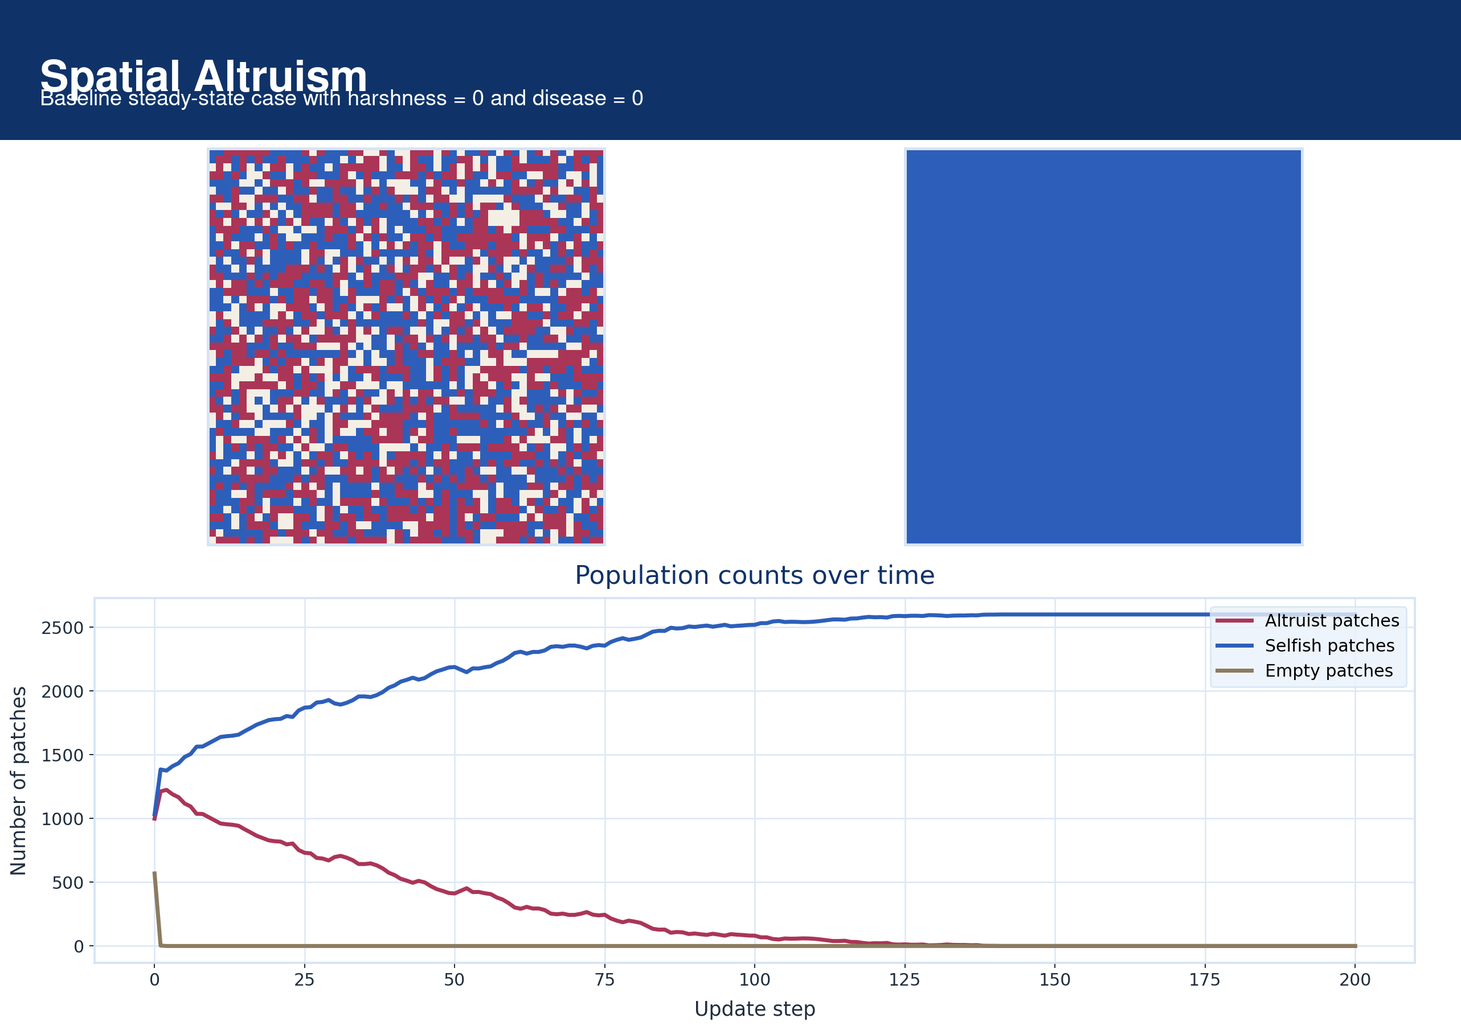
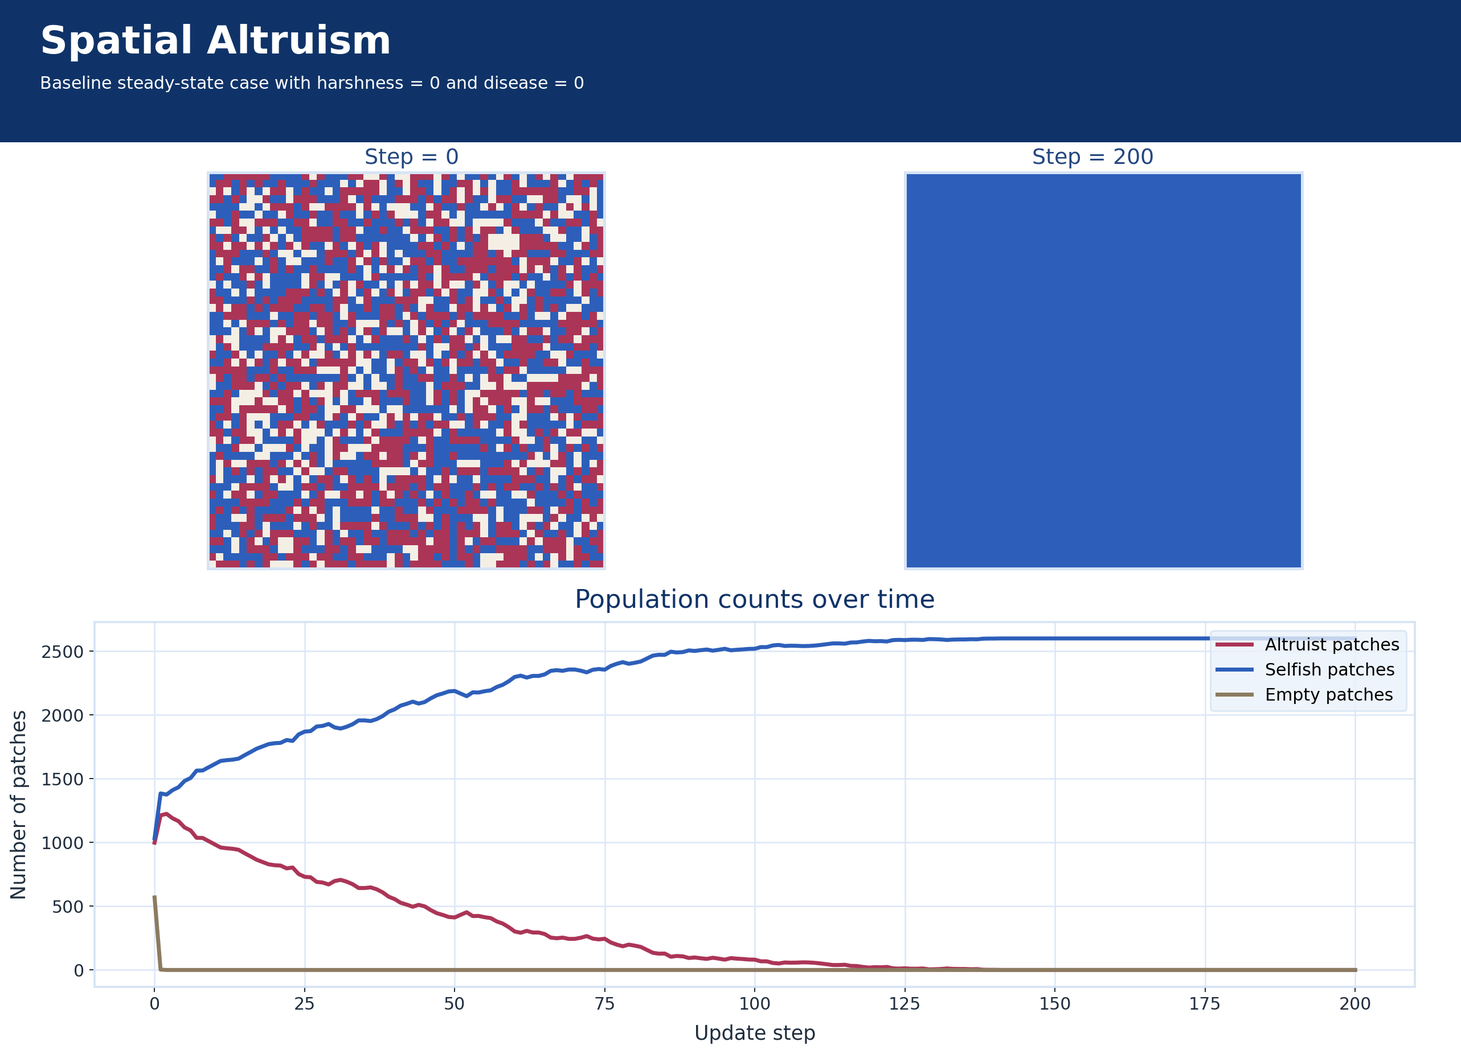
Refactor code structure for improved readability and maintainability

diff --git a/docs/evolved-cooperation/spatial-altruism/spatial-altruism.md b/docs/evolved-cooperation/spatial-altruism/spatial-altruism.md
@@ -9,6 +9,8 @@ import SpatialAltruismReplay from '@site/src/components/SpatialAltruismReplay';
 
 Spatial Altruism is the minimal evolved-cooperation case study on this site. It asks a deceptively simple question: **how can an altruistic inherited trait survive when selfish competitors enjoy the same local benefit without paying the altruist cost?**
 
+The page is easiest to read as a sequence: first the baseline case in which selfishness wins, then the local update rule that produces that result, then the harsher setting in which altruist clusters can survive better.
+
 ## The Puzzle
 
 If altruists help their neighborhood but selfish individuals get that help for free, selfishness should appear to have the direct advantage.
@@ -32,9 +34,9 @@ It represents a spatial population in which:
 - reproduction is represented by a local replacement lottery for space,
 - the composition of the population changes across generations.
 
-One useful intuition is to imagine local plants, colonies, or lineages "seeding" for nearby space. Each occupied site contributes reproductive pressure toward itself and its neighbors, and the next occupant of each site is determined by a local genetic lottery.
+One useful intuition is to imagine local plants, colonies, or lineages "seeding" for nearby space. Each occupied site contributes reproductive pressure toward itself and its neighbors, and the next occupant of each site is determined by a local genetic lottery. That setup is enough to generate the two comparisons that organize the page: the baseline outcome in Display 1 and the harsher empty-space regime in Display 2.
 
-## The Plain Steady-State Model
+## Display 1: The Baseline Result
 
 Each patch has one of three visible states in the figures on this page and in the sampled browser replay:
 
@@ -42,15 +44,21 @@ Each patch has one of three visible states in the figures on this page and in th
 - selfish: blue
 - empty: light beige
 
-Display 1 shows the plain baseline case: the same initial proportions used in the website demo, but with `harshness = 0` and `disease = 0`. So it shows what happens before the void is made an active ecological competitor.
+Display 1 is the baseline run. It uses the same initial population mix as Display 2 and the replay below, but it does not give empty space any extra competitive help in the local lottery. The point of starting here is simple: in this baseline version, selfishness wins.
 
 <figure style={{ width: '100%', margin: '0 0 1.25rem 0', textAlign: 'center' }}>
-  <img
-    src="/evolved-cooperation/spatial-altruism/spatial-altruism-overview-default.png"
-    alt="Baseline spatial altruism overview showing initial and later patch states together with population counts over time."
-    style={{ width: '100%', border: '1px solid #D6E4F5' }}
-  />
-  <figcaption style={{ marginTop: '0.6rem', textAlign: 'center' }}><strong>Display 1:</strong> Baseline steady-state case with <code>harshness = 0</code> and <code>disease = 0</code>, showing selfish takeover.</figcaption>
+  <div style={{ width: '100%', overflow: 'hidden', border: '1px solid #D6E4F5' }}>
+    <div style={{ backgroundColor: '#0F3368', padding: '20px 45px', color: '#FFFFFF', textAlign: 'left', fontFamily: 'IBM Plex Sans, Avenir Next, Segoe UI, sans-serif' }}>
+      <div style={{ fontSize: '20px', fontWeight: 700, lineHeight: 1.3 }}>Spatial Altruism</div>
+      <div style={{ marginTop: '12px', fontSize: '14px', fontWeight: 400, lineHeight: 1.4 }}>Baseline steady-state case with harshness = 0 and disease = 0</div>
+    </div>
+    <img
+      src="/evolved-cooperation/spatial-altruism/spatial-altruism-overview-default-body.png"
+      alt="Baseline spatial altruism overview showing initial and later patch states together with population counts over time."
+      style={{ display: 'block', width: '100%', height: 'auto' }}
+    />
+  </div>
+  <figcaption style={{ marginTop: '0.6rem', textAlign: 'center' }}><strong>Display 1:</strong> Baseline steady-state run with no extra competitive help for empty space, showing selfish takeover.</figcaption>
 </figure>
 
 Two things are worth noticing immediately in Display 1:
@@ -58,17 +66,17 @@ Two things are worth noticing immediately in Display 1:
 - empty space disappears almost immediately,
 - selfish patches steadily drive altruists to extinction.
 
-That is the intuitive baseline result. If nothing makes the void competitive, selfish individuals exploit altruists and eventually take over the whole lattice. In this baseline run, altruists start at `999` patches but fall to `81` by step `100` and to `0` by step `150`, while selfish patches rise to `2601`, the entire `51 × 51` world.
+That is the baseline story. If the main contest is just altruists versus selfish free-riders, selfishness takes over. In this baseline run, altruists start at `999` patches but fall to `81` by step `100` and to `0` by step `150`, while selfish patches rise to `2601`, the entire `51 × 51` world. The next step is to see how one update works, because that makes clear why the baseline behaves this way and why Display 2 behaves differently.
 
-## One Update Step In Plain Language
+## How One Update Works
 
-Before looking at the equations, it helps to understand what one generation does.
+Before introducing the exact notation later on, it helps to understand what one generation does.
 
 1. A focal site looks at a plus-shaped neighborhood of five sites: itself, up, down, left, and right.
 2. The number of nearby altruists determines how much local social benefit is available at that focal site.
-3. Each site in that neighborhood receives a fitness value: altruists pay a cost, selfish individuals do not, and empty sites receive a baseline competitive weight.
+3. Each site in that neighborhood receives a fitness value: altruists pay a cost, selfish individuals do not, and empty sites may or may not receive their own competitive weight depending on the version of the model.
 4. Those fitness values are added by type to form a local lottery for who occupies the focal site next.
-5. In the `steady_state` version, the void also receives an extra term called `disease`, which makes emptiness more likely even when nearby occupied sites are strong.
+5. In the Display 2 version, the void also receives an extra bonus term that makes emptiness more likely even when nearby occupied sites are strong.
 6. The next occupant of the focal site is sampled from those lottery weights.
 
 The model is spatial because each focal site repeats that process using only its own plus-shaped neighborhood:
@@ -81,7 +89,98 @@ The model is spatial because each focal site repeats that process using only its
 
 So each local calculation uses exactly `5` patches.
 
+Display 1 and Display 2 use this same local update structure. The difference is that Display 1 leaves empty-space pressure turned off, while Display 2 turns it on strongly.
+
+## Why Display 2 Changes The Outcome
+
+Display 2 changes one part of the selection environment: empty space becomes an active competitor in the local lottery.
+
+Two terms do that work:
+
+- `harshness` gives empty patches their own baseline competitive weight
+- `disease` adds extra lottery mass favoring emptiness on top of that baseline
+
+That changes the question. In Display 1, the main issue is whether altruists or selfish free-riders win in a dense mixed world. In Display 2, the question becomes:
+
+**Which inherited type survives and regrows better when local neighborhoods are repeatedly thinned out by the void?**
+
+In the Display 2 setting, the answer is: altruist clusters survive that ecological filter better than selfish free-riders.
+
+The logic is:
+
+- selfish patches benefit from altruists only when altruists are nearby
+- selfish patches do not help maintain those beneficial neighborhoods
+- altruist clusters, by contrast, support one another's local fitness
+- when the void expands, selfish patches lose the support structure they were exploiting
+- clustered altruists are better able to hold or recolonize the remaining occupied pockets
+
+This is why `harshness` and `disease` do not reward altruism directly. They reward whatever survives best against the void, and under these settings that favors clustered altruists.
+
+The contrast is strong in the canonical code-backed counterfactuals for this same Display 2 parameterization:
+
+- with `disease = 0.0`, altruists are extinct by step `200`
+- with `harshness = 0.0`, altruists are also extinct by step `200`
+- with both present in the Display 2 run, altruists survive and eventually dominate the remaining occupied sites
+
+Display 2 shows that altered selection environment.
+
+<figure style={{ width: '100%', margin: '0 0 1.25rem 0', textAlign: 'center' }}>
+  <div style={{ width: '100%', overflow: 'hidden', border: '1px solid #D6E4F5' }}>
+    <div style={{ backgroundColor: '#0F3368', padding: '20px 45px', color: '#FFFFFF', textAlign: 'left', fontFamily: 'IBM Plex Sans, Avenir Next, Segoe UI, sans-serif' }}>
+      <div style={{ fontSize: '20px', fontWeight: 700, lineHeight: 1.3 }}>Spatial Altruism</div>
+      <div style={{ marginTop: '12px', fontSize: '14px', fontWeight: 400, lineHeight: 1.4 }}>Frozen website-demo case with harshness = 0.96 and disease = 0.213</div>
+    </div>
+    <img
+      src="/evolved-cooperation/spatial-altruism/spatial-altruism-overview-harshness-disease-body.png"
+      alt="Spatial altruism overview with harshness and disease showing initial and later patch states together with population counts over time."
+      style={{ display: 'block', width: '100%', height: 'auto' }}
+    />
+  </div>
+  <figcaption style={{ marginTop: '0.6rem', textAlign: 'center' }}><strong>Display 2:</strong> Steady-state run with strong empty-space competition (<code>harshness = 0.96</code> and <code>disease = 0.213</code>), showing altruist survival under strong void pressure.</figcaption>
+</figure>
+
+## Reading Display 2
+
+Display 2 is a specific seeded run, not a schematic sketch. It uses the same initial population mix as Display 1, but under much stronger empty-space pressure. The main settings are:
+
+- initial `altruistic_probability = 0.39`
+- initial `selfish_probability = 0.39`
+- `benefit_from_altruism = 0.468`
+- `cost_of_altruism = 0.156`
+- `harshness = 0.96`
+- `disease = 0.213`
+- `seed = 1`
+
+The trajectory in the chart is easiest to read in three phases.
+
+### Phase 1: selfish patches lead in dense mixed regions
+
+At the beginning, selfish patches exploit altruist-produced benefit without paying the altruist cost. In this run, altruists start at `999` patches and selfish patches at `1033`, but by step `25` altruists have fallen to `516` while selfish patches remain higher at `860`.
+
+### Phase 2: the void expands and occupancy collapses
+
+Then the empty state begins winning many local lotteries. `harshness = 0.96` makes empty sites almost as competitive as occupied ones even before the extra void term is added, and `disease = 0.213` pushes the lottery further toward emptiness. That is why the beige region spreads so rapidly and why the empty-patch curve rises from `569` initially to `1684` by step `50`, then to `1929` by step `100`.
+
+### Phase 3: altruists survive better in the sparse regime
+
+Once empty space dominates, selfish patches lose the altruist neighbors they were exploiting. Altruist clusters, by contrast, still support one another locally. So even though altruists lost ground early, they become the majority among the remaining occupied patches later on. In this run, altruists are only about `37.5%` of occupied patches at step `25`, but about `59.4%` by step `100`, `76.6%` by step `150`, and `87.8%` by step `200`.
+
+So Display 2 is not showing altruism becoming intrinsically stronger than selfishness. It is showing the selection environment changing. In a dense mixed world selfishness wins locally; in a harsh, void-dominated world clustered altruists survive the ecological filter better.
+
+## Interactive Replay
+
+The browser replay below is based on sampled frames from the same `steady_state` configuration shown in Display 2.
+
+The canonical implementation and supporting analysis live in the [EvolvedCooperation](https://github.com/doesburg11/EvolvedCooperation) repository:
+
+- [Module directory](https://github.com/doesburg11/EvolvedCooperation/tree/main/spatial_altruism)
+- [Core model](https://github.com/doesburg11/EvolvedCooperation/blob/main/spatial_altruism/altruism_model.py)
+
+<SpatialAltruismReplay />
+
 ## Formal Ingredients
+
+The story above is enough to follow the main argument of the page. The definitions below give the exact implementation and notation used by the underlying model.
 
 ### Local Benefit Rule
 
@@ -156,93 +255,12 @@ The next generation at each patch is then sampled from those weights:
 - selfish if the draw lands in `self_weight`
 - empty otherwise
 
-Both still figures on this page and the replay below use that same plain `steady_state` rule. The difference is parameterization:
+Both still figures on this page and the replay use that same plain `steady_state` rule. The difference is parameterization:
 
-- Display 1 shows the baseline case with no void pressure
-- Display 2 later shows the frozen website configuration with strong `harshness` and `disease`
+- Display 1 shows the baseline case with no extra competitive help for empty space
+- Display 2 and the replay use the same initial population mix under strong `harshness` and `disease`
 
-The culling figures later on the page describe an extension of the model, not the mechanism shown in these two steady-state displays.
-
-## Why `Harshness` And `Disease` Change The Outcome
-
-The crucial step in understanding the chart is to see that empty space is not passive background in the `steady_state` model.
-
-- `harshness` gives every empty site a baseline fitness in the lottery
-- `disease` adds extra void lottery mass on top of that baseline
-
-So empty sites actively compete against occupied sites for control of space.
-
-That changes the selection problem in an important way. Without strong pressure from the void, selfish individuals usually win because they get the altruist benefit without paying the cost. But once empty space becomes hard to displace, the question becomes:
-
-**Which inherited type survives and regrows better when local neighborhoods are repeatedly thinned out by the void?**
-
-In the frozen demo setting, the answer is: altruist clusters survive that ecological filter better than selfish free-riders.
-
-The logic is:
-
-- selfish patches benefit from altruists only when altruists are nearby
-- selfish patches do not help maintain those beneficial neighborhoods
-- altruist clusters, by contrast, support one another's local fitness
-- when the void expands, selfish patches lose the support structure they were exploiting
-- clustered altruists are better able to hold or recolonize the remaining occupied pockets
-
-This is why `harshness` and `disease` do not reward altruism directly. They reward whatever survives best against the void, and under these settings that favors clustered altruists.
-
-The contrast is strong in the canonical code-backed counterfactuals for this same frozen setup:
-
-- with `disease = 0.0`, altruists are extinct by step `200`
-- with `harshness = 0.0`, altruists are also extinct by step `200`
-- with both present in the frozen demo run, altruists survive and eventually dominate the remaining occupied sites
-
-Display 2 shows that altered selection environment.
-
-<figure style={{ width: '100%', margin: '0 0 1.25rem 0', textAlign: 'center' }}>
-  <img
-    src="/evolved-cooperation/spatial-altruism/spatial-altruism-overview-harshness-disease.png"
-    alt="Spatial altruism overview with harshness and disease showing initial and later patch states together with population counts over time."
-    style={{ width: '100%', border: '1px solid #D6E4F5' }}
-  />
-  <figcaption style={{ marginTop: '0.6rem', textAlign: 'center' }}><strong>Display 2:</strong> Frozen website-demo configuration with <code>harshness = 0.96</code> and <code>disease = 0.213</code>, showing altruist survival under strong void pressure.</figcaption>
-</figure>
-
-## Reading Display 2
-
-Display 2 is a specific seeded run of the frozen website-demo configuration, not a schematic sketch. The main settings are:
-
-- initial `altruistic_probability = 0.39`
-- initial `selfish_probability = 0.39`
-- `benefit_from_altruism = 0.468`
-- `cost_of_altruism = 0.156`
-- `harshness = 0.96`
-- `disease = 0.213`
-- `seed = 1`
-
-The trajectory in the chart is easiest to read in three phases.
-
-### Phase 1: selfish patches lead in dense mixed regions
-
-At the beginning, selfish patches exploit altruist-produced benefit without paying the altruist cost. In the frozen run, altruists start at `999` patches and selfish patches at `1033`, but by step `25` altruists have fallen to `516` while selfish patches remain higher at `860`.
-
-### Phase 2: the void expands and occupancy collapses
-
-Then the empty state begins winning many local lotteries. `harshness = 0.96` makes empty sites almost as competitive as occupied ones even before the extra void term is added, and `disease = 0.213` pushes the lottery further toward emptiness. That is why the beige region spreads so rapidly and why the empty-patch curve rises from `569` initially to `1684` by step `50`, then to `1929` by step `100`.
-
-### Phase 3: altruists survive better in the sparse regime
-
-Once empty space dominates, selfish patches lose the altruist neighbors they were exploiting. Altruist clusters, by contrast, still support one another locally. So even though altruists lost ground early, they become the majority among the remaining occupied patches later on. In the frozen run, altruists are only about `37.5%` of occupied patches at step `25`, but about `59.4%` by step `100`, `76.6%` by step `150`, and `87.8%` by step `200`.
-
-So Display 2 is not showing altruism becoming intrinsically stronger than selfishness. It is showing the selection environment changing. In a dense mixed world selfishness wins locally; in a harsh, void-dominated world clustered altruists survive the ecological filter better.
-
-## Interactive Replay
-
-The exported browser replay below is based on sampled frames from the same frozen `steady_state` configuration shown in Display 2.
-
-The canonical implementation and supporting analysis live in the [EvolvedCooperation](https://github.com/doesburg11/EvolvedCooperation) repository:
-
-- [Module directory](https://github.com/doesburg11/EvolvedCooperation/tree/main/spatial_altruism)
-- [Core model](https://github.com/doesburg11/EvolvedCooperation/blob/main/spatial_altruism/altruism_model.py)
-
-<SpatialAltruismReplay />
+The culling figures later on the page describe an extension of the model, not the mechanism shown in these steady-state displays.
 
 ## Why This Belongs Under Evolved Cooperation
 
@@ -266,7 +284,7 @@ The repository now implements the full three-variant Mitteldorf-Wilson set:
 - `uniform_culling`: scheduled random evacuation of a fixed share of sites
 - `compact_swath`: scheduled clearing of one contiguous square region
 
-The replay above remains a frozen `steady_state` run matching Display 2, but the underlying Python module also includes both disturbance variants.
+The replay above remains a sampled `steady_state` run matching Display 2, but the underlying Python module also includes both disturbance variants.
 
 ## Culling Experiment
 
@@ -321,11 +339,14 @@ Under the same disturbance settings, `uniform_culling` preserves substantially m
 
 ## Conclusions
 
-- the package now covers the steady-state model and both paper disturbance variants
-- both culling variants can support altruist-selfish coexistence under some settings
-- `uniform_culling` was more robust than `compact_swath` in the first culling sweep
-- the current evidence suggests that contiguous swath clearing creates a harsher recolonization bottleneck than scattered clearing at the same nominal disturbance level
-- these conclusions come from one sweep at fixed `harshness` and interval, so they are comparative results for this run, not universal claims about every parameter regime
+This case study gives a conditional answer to the question of how cooperation can emerge.
+
+- cooperation does not emerge automatically just because helping produces a shared benefit; when cooperators and free-riders are mixed together in ordinary dense conditions, the free-riders win because they get the benefit without paying the cost
+- cooperation becomes more likely when the environment changes who can survive and recover; in the harsher setting on this page, empty space expands and local clusters matter more, which helps groups of cooperators persist better than isolated free-riders
+- the main lesson is that cooperation here is not favored because altruism is always stronger in itself; it is favored when ecological structure makes it harder for selfish individuals to keep exploiting cooperators
+- more broadly, this means the emergence of cooperation depends on context: population structure, local interaction, and environmental pressure can change whether selfishness or cooperation is selected
+- the culling results point in the same direction; disturbance can sometimes preserve coexistence, and scattered clearing was more supportive of coexistence than one large contiguous cleared region in this first sweep
+- this is therefore not a claim that cooperation always evolves; it is a claim that cooperation can emerge when the environment and the spatial structure protect cooperative clusters long enough for selection to favor them
 
 ## References
 

diff --git a/docs/cooperation-in-perspective/cooperation-in-perspective.md b/docs/cooperation-in-perspective/cooperation-in-perspective.md
@@ -144,8 +144,14 @@ The front page explains cooperation as a two-timescale problem shaped by evoluti
 
 Herrmann et al. (2007) help make that point more precise. The comparison with closely related ape species suggests that the human difference is especially large in the social domain rather than across every kind of problem-solving.
 
-<figure style={{ textAlign: 'center' }}>
-  <img src="/img/cooperation-in-perspective/display-2.png" alt="Display 4: 2.5-year-old children performed roughly like chimpanzees in the physical domain, with orangutans lower, but far better than both ape species in the social domain (Herrmann et al., 2007)" width="1180" style={{ display: 'block', margin: '0 auto' }} />
+<figure style={{ margin: '0 0 2rem', textAlign: 'center' }}>
+  <div style={{ width: '100%', maxWidth: '1180px', margin: '0 auto', overflow: 'hidden' }}>
+    <div style={{ backgroundColor: '#0F3368', padding: '20px 45px', color: '#FFFFFF', textAlign: 'left', fontFamily: 'IBM Plex Sans, Avenir Next, Segoe UI, sans-serif' }}>
+      <div style={{ fontSize: '20px', fontWeight: 700, lineHeight: 1.3 }}>Comparative Performance in Physical and Social Domains</div>
+      <div style={{ marginTop: '12px', fontSize: '14px', fontWeight: 400, lineHeight: 1.4 }}>Comparison human children versus other primates in the physical domain (A) and the social domain(B).</div>
+    </div>
+    <img src="/img/cooperation-in-perspective/display-2.png" alt="Display 4: 2.5-year-old children performed roughly like chimpanzees in the physical domain, with orangutans lower, but far better than both ape species in the social domain (Herrmann et al., 2007)" style={{ display: 'block', width: '100%', height: 'auto' }} />
+  </div>
   <figcaption style={{ marginTop: '0.6rem', textAlign: 'center' }}><strong>Display 4:</strong> 2.5-year-old children performed roughly like chimpanzees in the physical domain, with orangutans lower, but far better than both ape species in the social domain (Herrmann et al., 2007).</figcaption>
 </figure>
 

diff --git a/HOUSE_STYLE.md b/HOUSE_STYLE.md
@@ -109,6 +109,10 @@ The main brand color should be the deep blue already used in the homepage top ba
 
 Use this as the default banner format for generated display images that follow the same treatment as Display 5 on the front page.
 
+- If a docs page embeds a figure as a plain `<img>` pointing to a `.png`, any visible blue header bar is part of that raster asset rather than separate page chrome.
+- Do not try to enforce banner house style by incrementally retouching an already-edited PNG header. Rebuild the full banner from the original source image in one pass, or move the banner treatment into MDX/HTML or SVG.
+- When exact banner padding, title/subtitle spacing, and alignment need to match house style precisely, prefer an external HTML/CSS banner wrapper or an SVG/box-layout implementation over manual raster text edits.
+
 - Background color: `#0F3368`
 - Text color: `#FFFFFF`
 - Banner width: full canvas width
